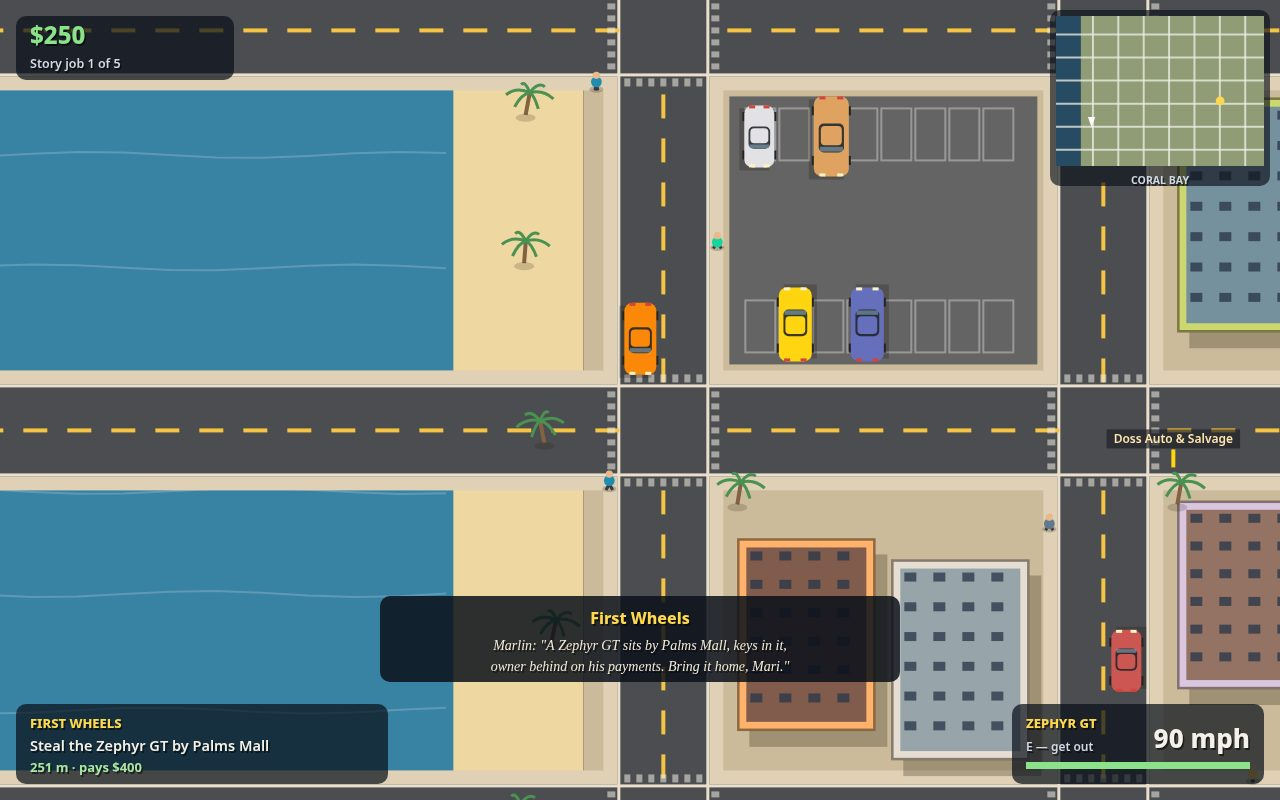
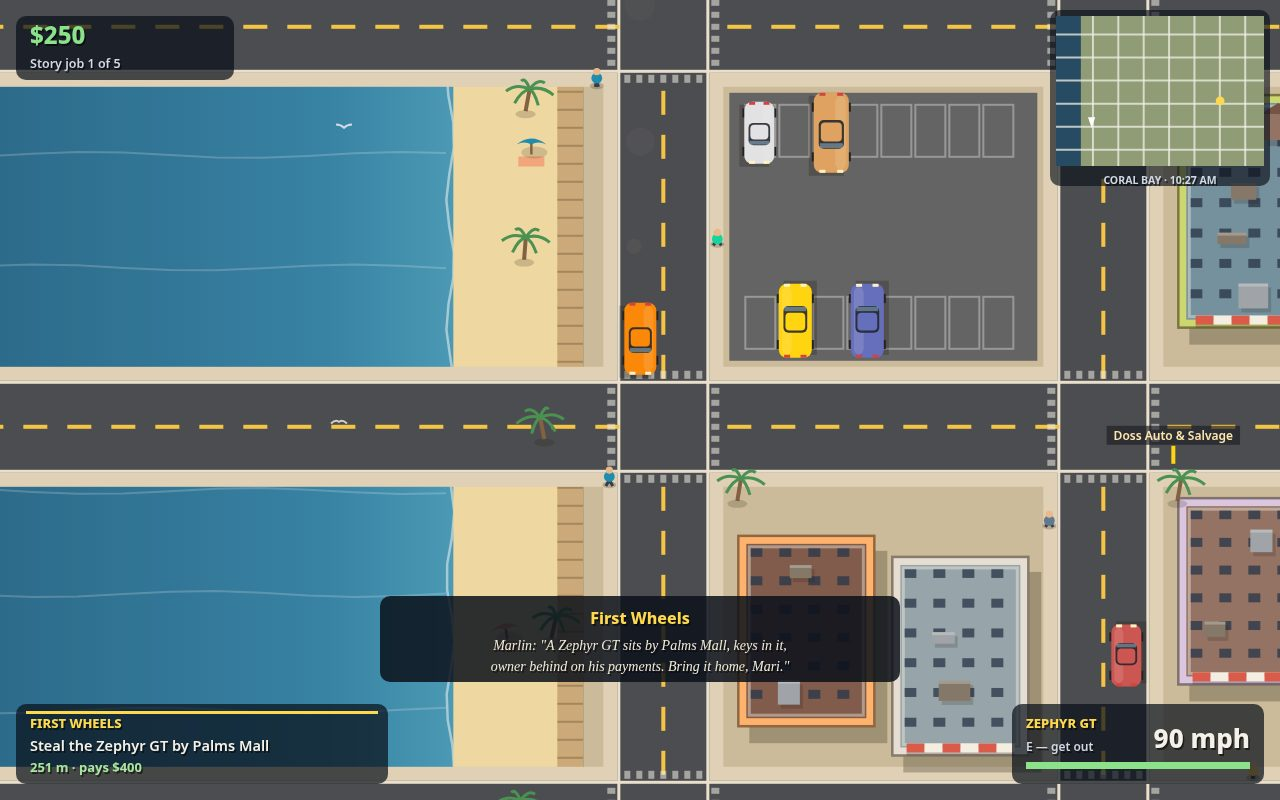
Re-shoot the four scenes over the richer city; entrypoint guards shot size and reports the game's weight

diff --git a/main.ts b/main.ts
@@ -9,7 +9,7 @@
 // Run it the way the grader does, or locally with an output override:
 //   mkdir -p out && MAKEFUN_OUTPUT_DIR=out node main.ts
 
-import { cpSync, existsSync, mkdirSync, readdirSync, writeFileSync } from 'node:fs';
+import { cpSync, existsSync, mkdirSync, readdirSync, statSync, writeFileSync } from 'node:fs';
 import { join } from 'node:path';
 import { fileURLToPath } from 'node:url';
 import { buildDossier } from './vendor/makefun-game.ts';
@@ -44,6 +44,14 @@ const shotNames = existsSync(join(repoRoot, 'screenshots'))
 if (shotNames.length < 3 || shotNames.length > 4) {
   throw new Error(`screenshots/ must hold 3 or 4 images, found ${shotNames.length}`);
 }
+// The gate also refuses a screenshot past 256 KiB; catch it here, where the
+// fix (re-shoot at a lower quality) is still cheap.
+for (const name of shotNames) {
+  const bytes = statSync(join(repoRoot, 'screenshots', name)).size;
+  if (bytes > DOSSIER_CAPS.screenshots.max_bytes) {
+    throw new Error(`screenshots/${name} is ${bytes} bytes, over the 256 KiB cap`);
+  }
+}
 
 mkdirSync(outputDir, { recursive: true });
 copyTree(gameDir, join(outputDir, 'game'));
@@ -57,5 +65,23 @@ if (existsSync(join(repoRoot, 'screenshots'))) {
 const dossierText = buildDossier(outputDir, DOSSIER_CAPS);
 writeFileSync(join(outputDir, 'dossier.json'), dossierText);
 
+function treeStats(dir) {
+  let files = 0;
+  let bytes = 0;
+  for (const entry of readdirSync(dir, { withFileTypes: true })) {
+    const path = join(dir, entry.name);
+    if (entry.isDirectory()) {
+      const sub = treeStats(path);
+      files += sub.files;
+      bytes += sub.bytes;
+    } else {
+      files += 1;
+      bytes += statSync(path).size;
+    }
+  }
+  return { files, bytes };
+}
+
 const shotCount = readdirSync(shotsDir).length;
-console.log(`Coral Bay Heat handed in: ${shotCount} screenshots, dossier ${dossierText.length} bytes -> ${outputDir}`);
+const gameStats = treeStats(join(outputDir, 'game'));
+console.log(`Coral Bay Heat handed in: ${shotCount} screenshots, game ${gameStats.files} files / ${gameStats.bytes} bytes, dossier ${dossierText.length} bytes -> ${outputDir}`);

diff --git a/game/src/shots.js b/game/src/shots.js
@@ -29,9 +29,11 @@ function stageChase(game) {
   game.startJob(); // First Wheels on the panel: a job to finish if she lands
   game.brief = null; // the brief box would sit on the chase; the panel tells it
   const { player, police } = game;
-  // Mari in a borrowed Voyager, northbound on Harbor Ave at speed, mid-block
-  // with open road ahead of her and the law stacked up behind.
-  const car = makeCar(VOYAGER, 1960 - 23, 1760, -Math.PI / 2, '#5b6abf', 'player');
+  // Mari in a borrowed Voyager, northbound on Harbor Ave at speed, with a
+  // long block ahead of her and the law stacked up behind. (She starts far
+  // enough back that the short staged run cannot end in the roadblock: the
+  // shot is the moment before the meeting, not the meeting.)
+  const car = makeCar(VOYAGER, 1960 - 23, 1990, -Math.PI / 2, '#5b6abf', 'player');
   car.speed = 335;
   car.driver = false;
   game.cars.push(car);
@@ -44,9 +46,9 @@ function stageChase(game) {
   police.stars = 4;
   police.blockCooldown = 30; // the staged roadblock below is the one she faces
   const spots = [
-    { x: 1960 - 23, y: 1895, a: -Math.PI / 2 },
-    { x: 1960 + 23, y: 1985, a: -Math.PI / 2 },
-    { x: 1960 - 20, y: 2075, a: -Math.PI / 2 },
+    { x: 1960 - 23, y: 2125, a: -Math.PI / 2 },
+    { x: 1960 + 23, y: 2215, a: -Math.PI / 2 },
+    { x: 1960 - 20, y: 2305, a: -Math.PI / 2 },
   ];
   for (const s of spots) {
     const cop = makeCar(CRUISER, s.x, s.y, s.a, CRUISER.paints[0], 'cruiser');
@@ -72,8 +74,8 @@ function stageChase(game) {
   }
   // Rubber on the road behind her, and a story job waiting once she lands.
   for (let i = 0; i < 26; i += 1) {
-    game.skids.push({ x: 1960 - 30 + (i % 3) * 4, y: 1820 + i * 9, life: 12 });
-    game.skids.push({ x: 1960 - 12 + (i % 3) * 4, y: 1820 + i * 9, life: 12 });
+    game.skids.push({ x: 1960 - 30 + (i % 3) * 4, y: 2050 + i * 9, life: 12 });
+    game.skids.push({ x: 1960 - 12 + (i % 3) * 4, y: 2050 + i * 9, life: 12 });
   }
   game.camera.x = car.x + 40;
   game.camera.y = car.y + 120;
